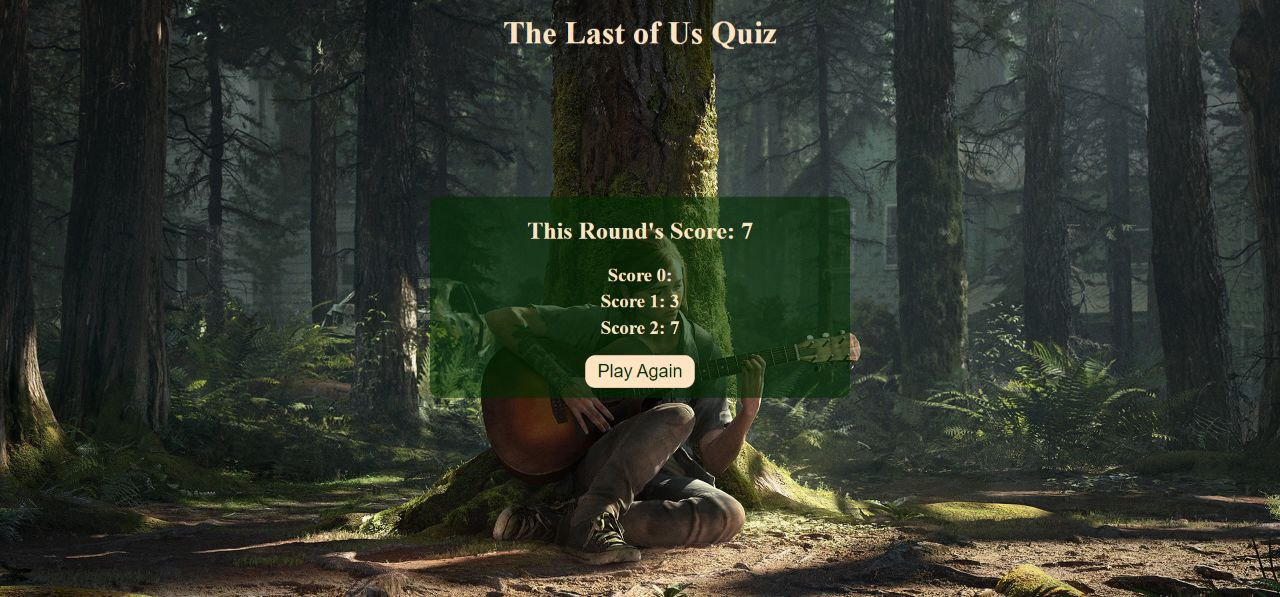
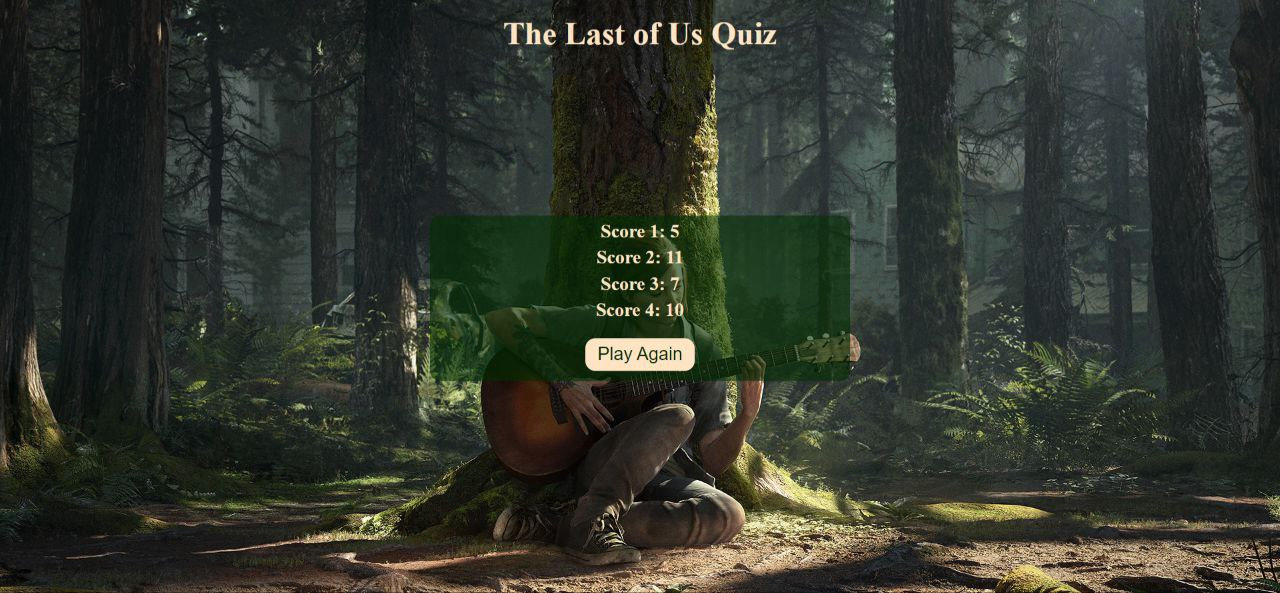
Add bugs section to readme

diff --git a/assets/javascript/script.js b/assets/javascript/script.js
@@ -217,7 +217,7 @@ function showResult() {
 
         localStorage.setItem("latestScore", scoreDetail);
 
-        let userScoreTemplate = `<h2>This Round's Score: ${score}</h2>`;
+        let userScoreTemplate="";
 
         scoreDetail.map((items, index) => {
             userScoreTemplate += `<h3>Score ${index}: ${items}</h3>`;

diff --git a/README.md b/README.md
@@ -25,8 +25,8 @@ Includes a message of people's performance, how many question they answered corr
 ![Image of result page](assets/images/result.jpg)
 
 ## Scoreboard
-Includes all scores, last round's score at the top and a button to play again that refreshes the page.
-![Image of correct answers page](assets/images/scoreboard.jpg)
+Includes all scores and a button to play again that refreshes the page.
+![Image of scoreboard page](assets/images/scoreboard.jpg)
 
 # Testing
 The site looks good on different screens. Image isn't distorted. Javascript code works as expected to make the quiz playable and responsive.
@@ -56,6 +56,25 @@ I clicked scoreboard button and saw all my previous attempts as well as the most
 I clicked play again button and the page refreshed to the page with start button and an explanation.
 
 I resized the page to check responsiveness and all elements were adjusted accordingly.
+
+# Bugs
+
+I had a problem with shuffling answer. Tried using Math.random() and googling but still couldn't figure out how to do it. At the end I had to ask on Stack Overflow and got the answer.
+
+Using local storage was challenging for me. Most YouTube videos only showed the basics so I had to go deeper to find a video where a person actually shows how to implement it to a webpage.
+
+In the earlier version of my webpage it had a "This round's score:" on top of the scoreboard page but when I added this code:
+
+```
+scoreDetail.map((items, index) => {
+            userScoreTemplate += `<h3>Score ${index}: ${items}</h3>`;
+            if (items==""){
+                userScoreTemplate="";
+            };
+        });
+```
+
+Specifically the if fucntion, the sentence stopped appearing.
 
 # Deployment
 
